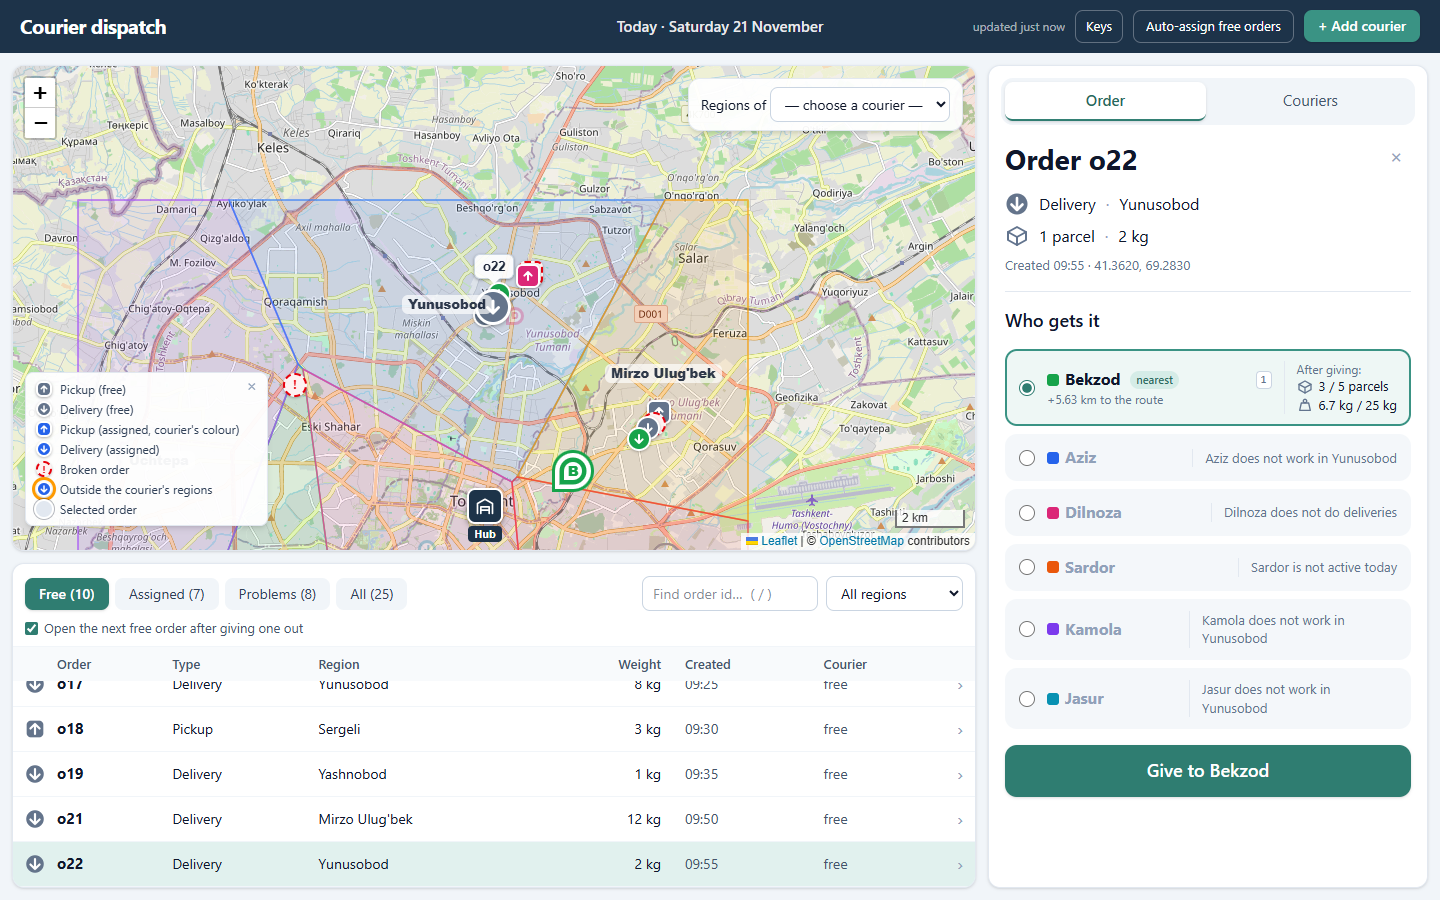
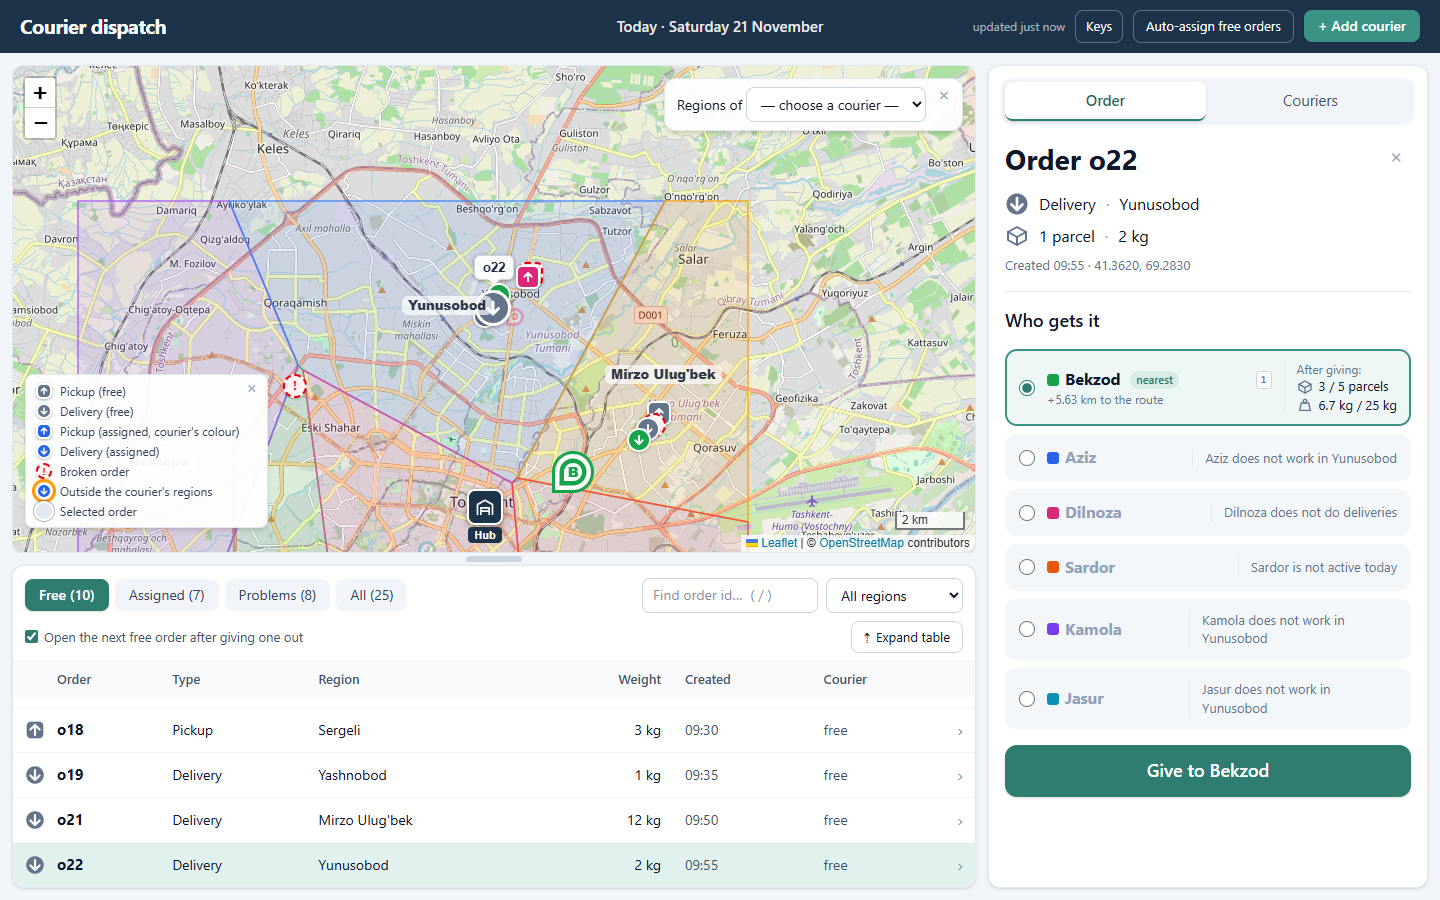
README: every dispatcher change with the goal it serves and why; phone layout, split, region bar and load error written up; fresh after screenshots and a phone screenshot

diff --git a/README.md b/README.md
@@ -155,7 +155,7 @@ Other things in the data:
 
 ## Dispatcher page improvements
 
-The follow-up task asked for a page that a dispatcher can use all working day: better layout, easier reading, and fewer steps to assign an order. These are the changes and the reason for each one. The look (dark header, map over the order table, order panel with courier cards and one big button) follows mockups I was given. The texts stay in English like the rest of the project, including the server's messages.
+The follow-up task ([docs/TASK2.md](docs/TASK2.md)) asked me to improve the page for a dispatcher who uses it all working day, in three ways: **layout**, **readability**, and **the number of steps needed to assign an order**, and to choose the changes myself. Below is every change, which of the three it serves, and why I made it. The look (dark header, map over the order table, order panel with courier cards and one big button) follows mockups I was given. The texts stay in English like the rest of the project, including the server's messages.
 
 ### Before and after
 
@@ -168,6 +168,8 @@ The data is the same in both: seven orders given out by hand ([how the screensho
 | One courier's route | ![before](docs/screenshots/before-courier-route.png) | ![after](docs/screenshots/after-courier-route.png) |
 | Order list | ![before](docs/screenshots/before-orders.png) | ![after](docs/screenshots/after-orders.png) |
 
+On a phone (360 px wide), after: <img src="docs/screenshots/after-phone-order.png" alt="the page on a 360 px phone" width="240">
+
 ### Steps to assign an order
 
 | Way of working | Before | After |
@@ -176,6 +178,28 @@ The data is the same in both: seven orders given out by hand ([how the screensho
 | From a pin on the map | pin → open the select → pick a courier → Assign: **4** | pin → "Give to …": **2** (3 when choosing someone other than the nearest) |
 | Undoing a wrong click | find the order → open the select → pick the old courier → Move: **4** | Undo in the message, or the U key: **1** |
 
+### All changes at a glance
+
+| # | Change | Serves | Why, in one line |
+| --- | --- | --- | --- |
+| 1 | Courier cards, nearest chosen, one big button | steps | most orders become one click, and the reason for every refusal is visible before clicking |
+| 2 | Next free order opens by itself | steps | working through the list needs no searching |
+| 3 | Undo | steps | one-click assigning must have a one-click way back |
+| 4 | Keyboard shortcuts | steps | a full-day user is faster on keys than on a mouse |
+| 5 | Map over the order table, Order / Couriers on the right | layout | orders, map and the open order are on screen together |
+| 6 | Adjustable split, Expand table / Show map | layout | the dispatcher decides how much room the map gets |
+| 7 | Dark header with date, data age and actions | layout | global actions in one place, the legend next to the map |
+| 8 | Region colours, arrow pins, hub badge, scale | reading | the map can be read without the legend |
+| 9 | One line per courier | layout | the whole team's load fits on one screen |
+| 10 | Order table: Free, oldest first, counts, search, region | steps, reading | the work still to do comes first, in the order it should be done |
+| 11 | Map highlights who can take the order | steps | "who is closest" is visible at a glance |
+| 12 | Data refreshes every 15 s | reading | changes by others show up without a reload |
+| 13 | Phone layout | layout | the page stays usable on a small screen |
+| 14 | Region bar: Done and × | layout | the bar does not cover the map when it is not needed |
+| 15 | 14px text, darker grey, big order details | reading | less strain over a working day |
+| 16 | One colour per status | reading | red means broken data and nothing else |
+| 17 | Plain message when the courier list cannot load | reading | a problem is said in words instead of an endless "Checking…" |
+
 ### Fewer steps
 
 1. **The courier select became a card per courier, with the nearest one already chosen.** It is the biggest change. Under "Who gets it" every courier has a card. A card for an allowed courier shows the load they would have after the order (parcels and kg) and the km the order adds to their route. The nearest one by the auto-assign rule (least km added) is on top, marked "nearest" and chosen at first. A big button under the cards says what will happen: "Give to Bekzod". For most orders the dispatcher only presses it, or Enter. Couriers who cannot take the order are greyed, with the server's reason on the card. They can still be chosen, and the button then says "Try Kamola anyway", so the server refuses in its own words, as before.
@@ -183,36 +207,38 @@ The data is the same in both: seven orders given out by hand ([how the screensho
 2. **The next free order opens by itself.** When an order gets its first courier, the next free order that someone can take opens, further down the table the dispatcher is looking at (so a region filter is respected). A checkbox turns this off, for anyone who prefers to work from the map. The choice is remembered in the browser. Moving an order or taking it off does not jump.
 3. **Undo.** The message after assign, move or take off has an Undo button for 8 seconds (also the U key). With one-click assigning, a wrong click is more likely, and undo has to be just as cheap. Undo is an ordinary request, so the server checks it again. If the old courier filled up in the meantime, the message says so.
    - Decision: an order that Undo moves back goes to the **end** of the old courier's route, because the route follows the time of assignment. Keeping the old place would mean a second, hidden rule for route order.
-4. **Keyboard.** `↓`/`↑` (or `J`/`K`) move through the table, `Enter` gives the open order to the chosen courier, `1`–`9` give it straight to that allowed courier (the numbers are on the cards), `U` undoes, `Esc` closes the order, `/` jumps to the search. The keys do nothing while you type in a field. A "Keys" button in the header lists them.
+4. **Keyboard.** `↓`/`↑` (or `J`/`K`) move through the table, `Enter` gives the open order to the chosen courier, `1`–`9` give it straight to that allowed courier (the numbers are on the cards), `U` undoes, `Esc` closes the order, `/` jumps to the search. The keys do nothing while you type in a field, and Enter on a focused button is not counted twice. A "Keys" button in the header lists them.
 
 ### Layout
 
 5. **Map on top, order table under it, the open order on the right.** Before, the orders, the couriers and the add-courier form shared one side panel, so looking at the list hid the couriers and the other way round. Now the order table is always on screen under the map, and the right panel has two tabs: **Order** (the open order and who gets it) and **Couriers**. Adding a courier is the "+ Add courier" button in the header, and the form opens in the right panel. `/` now opens the orders, the dispatcher's main work.
-   - **The split is adjustable.** The bar between the map and the table can be dragged (or moved with ↑/↓ when focused; double-click puts it back to 60 % map). "Expand table" gives the table the whole height and hides the map, for long working sessions in the list. "Show map" brings it back. Both slide in 0.3 s (not while dragging, where the bar follows the pointer), and both are remembered in the browser. Leaflet is told the new size on every change, so the tiles always fill the map.
-6. **The dark header** holds the page name, today's date (Tashkent time), how fresh the data is, the keys, auto-assign and "+ Add courier". The pin legend moved from the header onto the map's bottom-left corner, next to what it explains. It can be folded away (remembered), and the map moves a picked order out from under it.
-7. **The map reads faster.** Each region has its own soft colour, so neighbouring districts are easy to tell apart. Pins carry an arrow: a square with an up arrow is a pickup (the parcel goes to the hub), a circle with a down arrow is a delivery. Free orders are grey, assigned ones take the courier's colour (the original task asks for that), broken ones are red and dashed. The selected order is larger, with its id above it. The hub is a warehouse badge. A scale bar shows distances. The region bar floats on the map instead of taking a row above it.
-8. **The courier panel is one line per courier:** name, kinds, a parcel bar, a weight bar and total km. All six couriers fit on one screen, so "who still has room" can be seen at a glance. Clicking a line slides the full card open (regions, load, stops, km) and draws the route on the map. Inactive couriers go to the bottom. The "shorter order" switch moved into the open card, where it applies.
-9. **The order table opens on Free, oldest first.** Free orders are the work still to do, and oldest first is the order auto-assign uses. The pills show counts (Free (10), Assigned (7), Problems (8), All (25)), and there are an id search and a region filter. The creation time is shown (in Tashkent time). The data has no street addresses, so the table has no address column. Filter, region and search are kept in the address, so a reload or a shared link keeps them, like every other view of the page.
-10. **The map helps choose.** While an order is open, the start pins of the couriers allowed to take it grow and the other couriers fade. When an order is picked in the table and its pin is off screen or under the legend, the map pans to it (the zoom stays).
-11. **The data refreshes by itself** every 15 seconds and when the tab gets focus. The header shows "updated N s ago", in amber when the data is more than a minute old. Before, the page only reloaded after the dispatcher's own changes, so changes by a second dispatcher stayed invisible.
+6. **The split between map and table is adjustable.** Some hours are spent on the map (regions, routes), others in the list, so one fixed split cannot suit both. The bar between them can be dragged; it follows the pointer exactly, because while dragging only the map's height is written, once per frame, and the page is not re-rendered. When the bar has focus, ↑/↓ move it, and a double-click puts it back to 60 % map. "Expand table" gives the table the whole height and hides the map; "Show map" brings it back. Both slide in 0.3 s. The split and the expanded state are remembered in the browser. Leaflet is told the new size on every change, so the tiles always fill the map.
+7. **The dark header** holds the page name, today's date (Tashkent time), how fresh the data is, the keys, auto-assign and "+ Add courier": everything that is not about one order or one courier. The pin legend moved from the header onto the map's bottom-left corner, next to what it explains. It can be folded away (remembered), and the map moves a picked order out from under it.
+8. **The map reads faster.** Each region has its own soft colour, so neighbouring districts are easy to tell apart. Pins carry an arrow: a square with an up arrow is a pickup (the parcel goes to the hub), a circle with a down arrow is a delivery. Free orders are grey, assigned ones take the courier's colour (the original task asks for that), broken ones are red and dashed. The selected order is larger, with its id above it. The hub is a warehouse badge. A scale bar shows distances.
+9. **The courier panel is one line per courier:** name, kinds, a parcel bar, a weight bar and total km. All six couriers fit on one screen, so "who still has room" can be seen at a glance. Clicking a line slides the full card open (regions, load, stops, km) and draws the route on the map. Inactive couriers go to the bottom. The "shorter order" switch moved into the open card, where it applies.
+10. **The order table opens on Free, oldest first.** Free orders are the work still to do, and oldest first is the order auto-assign uses. The pills show counts (Free (10), Assigned (7), Problems (8), All (25)), and there are an id search and a region filter. The creation time is shown (in Tashkent time). The data has no street addresses, so the table has no address column. Filter, region and search are kept in the address, so a reload or a shared link keeps them, like every other view of the page.
+11. **The map helps choose.** While an order is open, the start pins of the couriers allowed to take it grow and the other couriers fade. When an order is picked in the table and its pin is off screen or under the legend, the map pans to it (the zoom stays).
+12. **The data refreshes by itself** every 15 seconds and when the tab gets focus. The header shows "updated N s ago", in amber when the data is more than a minute old. Before, the page only reloaded after the dispatcher's own changes, so changes by a second dispatcher stayed invisible.
+13. **Phone layout.** A dispatcher works at a desk, but may need to check something away from it, and the old page broke on a phone (header in three rows, table cut off, courier names over the bars). Below 1000 px the blocks stack (map, table, order panel), the page scrolls as a whole and the map has a fixed height. Below 640 px the header has two rows, Keys and the data age hide (no keyboard there), the table drops the Type, Created and arrow columns (the icon shows the type), the filter pills scroll sideways, the courier rows drop the weight bar, and picking an order scrolls to the order panel. Checked at 360 and 320 px: nothing is wider than the screen.
+14. **The region bar has a Done button and a ×.** Done stops editing; before, the only way out was to choose "— choose a courier —" in the select. The × folds the whole bar into a small "Regions" button so it does not cover the map (remembered). It asks first if region changes are unsaved, and the bar opens again by itself right after a courier is added, when their regions are to be chosen.
 
 ### Reading
 
-12. **Text is 14px instead of the browser's 16px mixed with 13px**, and grey text is darker (slate-600 instead of slate-500). The order title, the order's kind, parcel and weight, and the courier names on the cards are large. Numbers use tabular figures, so km and kg line up in columns. The side panel and the table scroll without drawing scroll bars.
-13. **One colour per status, everywhere:** red only for broken data, amber for "no courier fits" and "outside regions" (before, "no courier fits" was red like broken data), the courier's colour for assigned orders, grey for free. Teal is used only for actions and for what is chosen.
-14. The region bar has a **Done** button to stop editing. Before, the only way out was to choose "— choose a courier —" in the select. Its × folds the whole bar into a small "Regions" button so it does not cover the map (remembered; it asks first if region changes are unsaved, and opens again by itself right after a courier is added).
+15. **Text is 14px instead of the browser's 16px mixed with 13px**, and grey text is darker (slate-600 instead of slate-500). The order title, the order's kind, parcel and weight, and the courier names on the cards are large. Numbers use tabular figures, so km and kg line up in columns. The side panel and the table scroll without drawing scroll bars.
+16. **One colour per status, everywhere:** red only for broken data, amber for "no courier fits" and "outside regions" (before, "no courier fits" was red like broken data), the courier's colour for assigned orders, grey for free. Teal is used only for actions and for what is chosen.
+17. **A plain message when the courier list cannot be loaded.** If the candidates request fails (for example a server started before this change, which answers "No such API endpoint"), the order panel says so with the server's words and a "Try again" link, instead of showing "Checking couriers…" forever.
 
 ### What I did not change, and why
 
 - **Drag-and-drop of an order onto a courier:** slower than a click or a key, awkward on a touchpad, and much more code.
 - **Region editing** stays as it was (a select, then clicks on the map). It already worked in a few clicks, and the original task asked for exactly this select.
 - **Russian texts from the mockups:** the project, its server messages and its tests are in English, and mixing languages would be worse than either.
-- **A dark theme, a phone layout for the dispatcher:** a dispatcher works at a desk. The phone page is for couriers (the second part of the task).
-- **Frontend tests**, for the same reason as before: the rules live on the server. The new endpoint has Go tests, and I drove the new flow in a headless browser: ↓ opens o23 (the oldest) with Aziz chosen, Enter gives it to him and opens o01, U takes it back, and choosing Kamola for o12 and pressing "Try Kamola anyway" shows "Kamola does not work in Bektemir".
+- **A dark theme:** it does not help any of the three goals.
+- **Frontend tests**, for the same reason as before: the rules live on the server. The new endpoint has Go tests. I drove the new flow in a headless browser: ↓ opens o23 (the oldest) with Aziz chosen, Enter gives it to him and opens o01, U takes it back, and choosing Kamola for o12 and pressing "Try Kamola anyway" shows "Kamola does not work in Bektemir". I also measured the split (the table expands and the map comes back in 0.3 s; while dragging the bar is 0 px from the pointer) and the phone layout at 360 and 320 px.
 
 ### How the screenshots were taken
 
-`docs/screenshots/before-*.png` were taken from the commit before any of these changes, and `after-*.png` from the finished page. Both come from the same script: a fresh server, the same seven orders given out through the API (o23, o01, o05 → Aziz; o02, o11 → Bekzod; o03 → Dilnoza; o14 → Kamola), then headless Chrome at 1440×900 on `/couriers`, `/couriers/c1`, `/orders` and `/orders/o22`.
+`docs/screenshots/before-*.png` were taken from the commit before any of these changes, and `after-*.png` from the finished page. Both come from the same script: a fresh server, the same seven orders given out through the API (o23, o01, o05 → Aziz; o02, o11 → Bekzod; o03 → Dilnoza; o14 → Kamola), then headless Chrome at 1440×900 on `/couriers`, `/couriers/c1`, `/orders` and `/orders/o22`. The phone screenshot is the same data at 360 px wide, on `/orders/o22`, as a full-page picture.
 
 ## What I skipped and why
 
